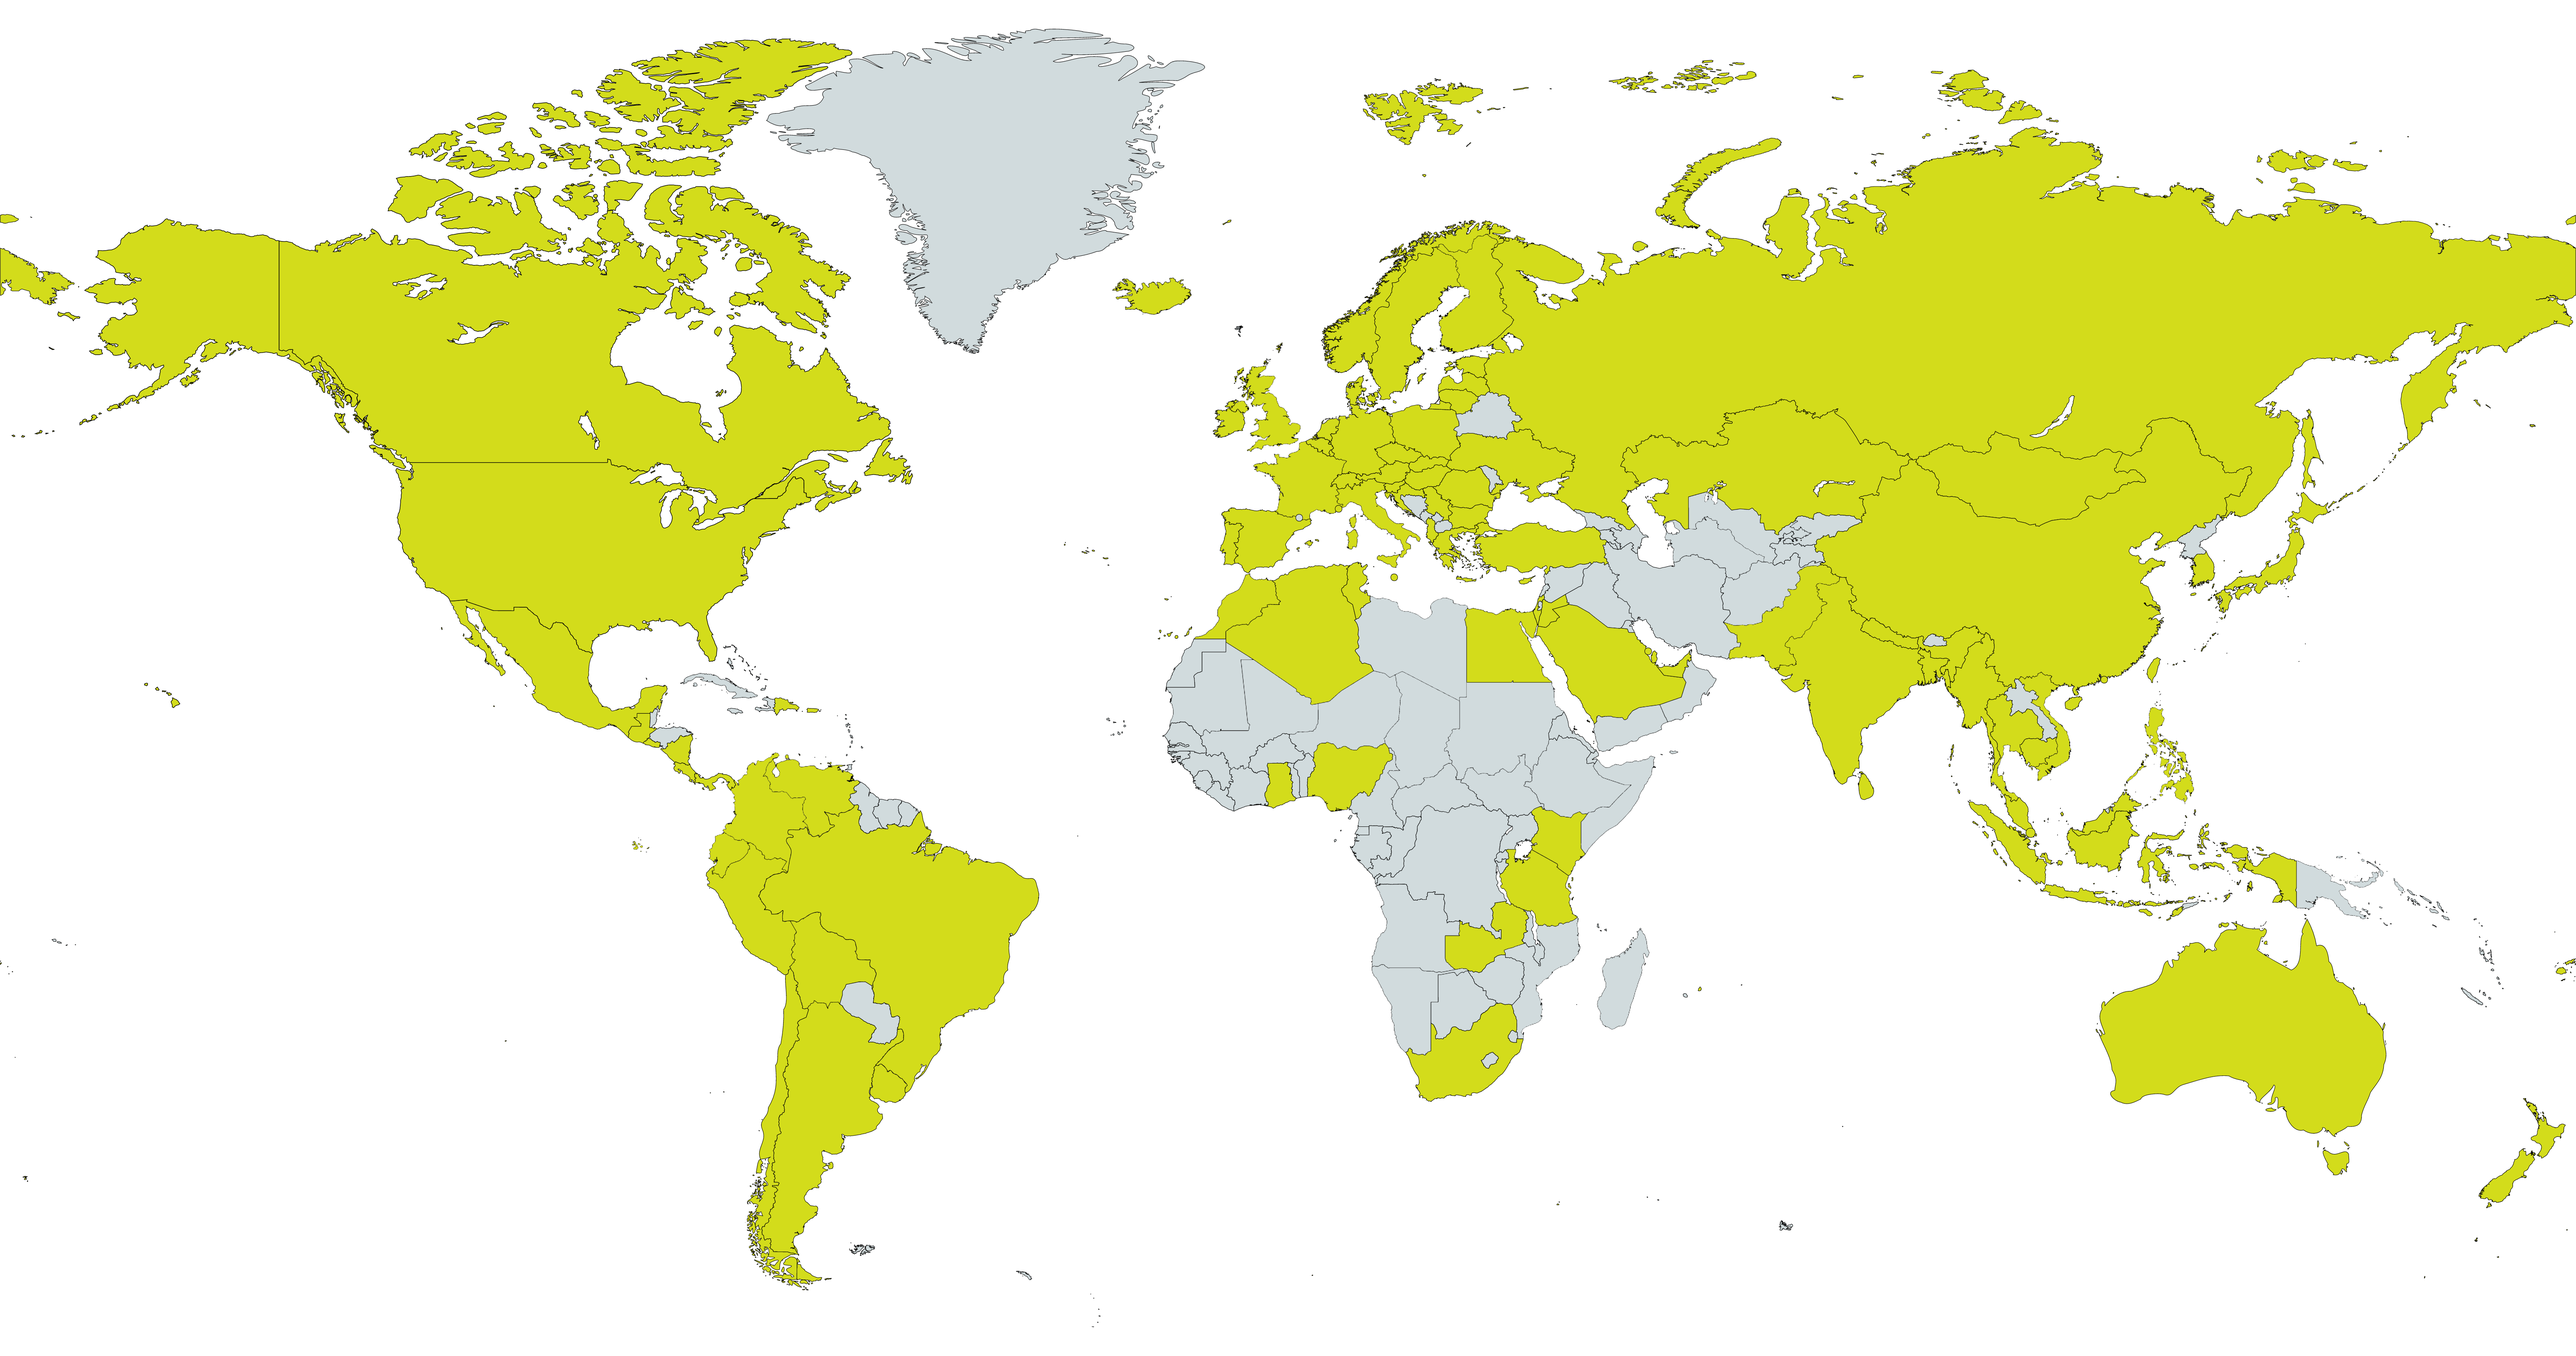
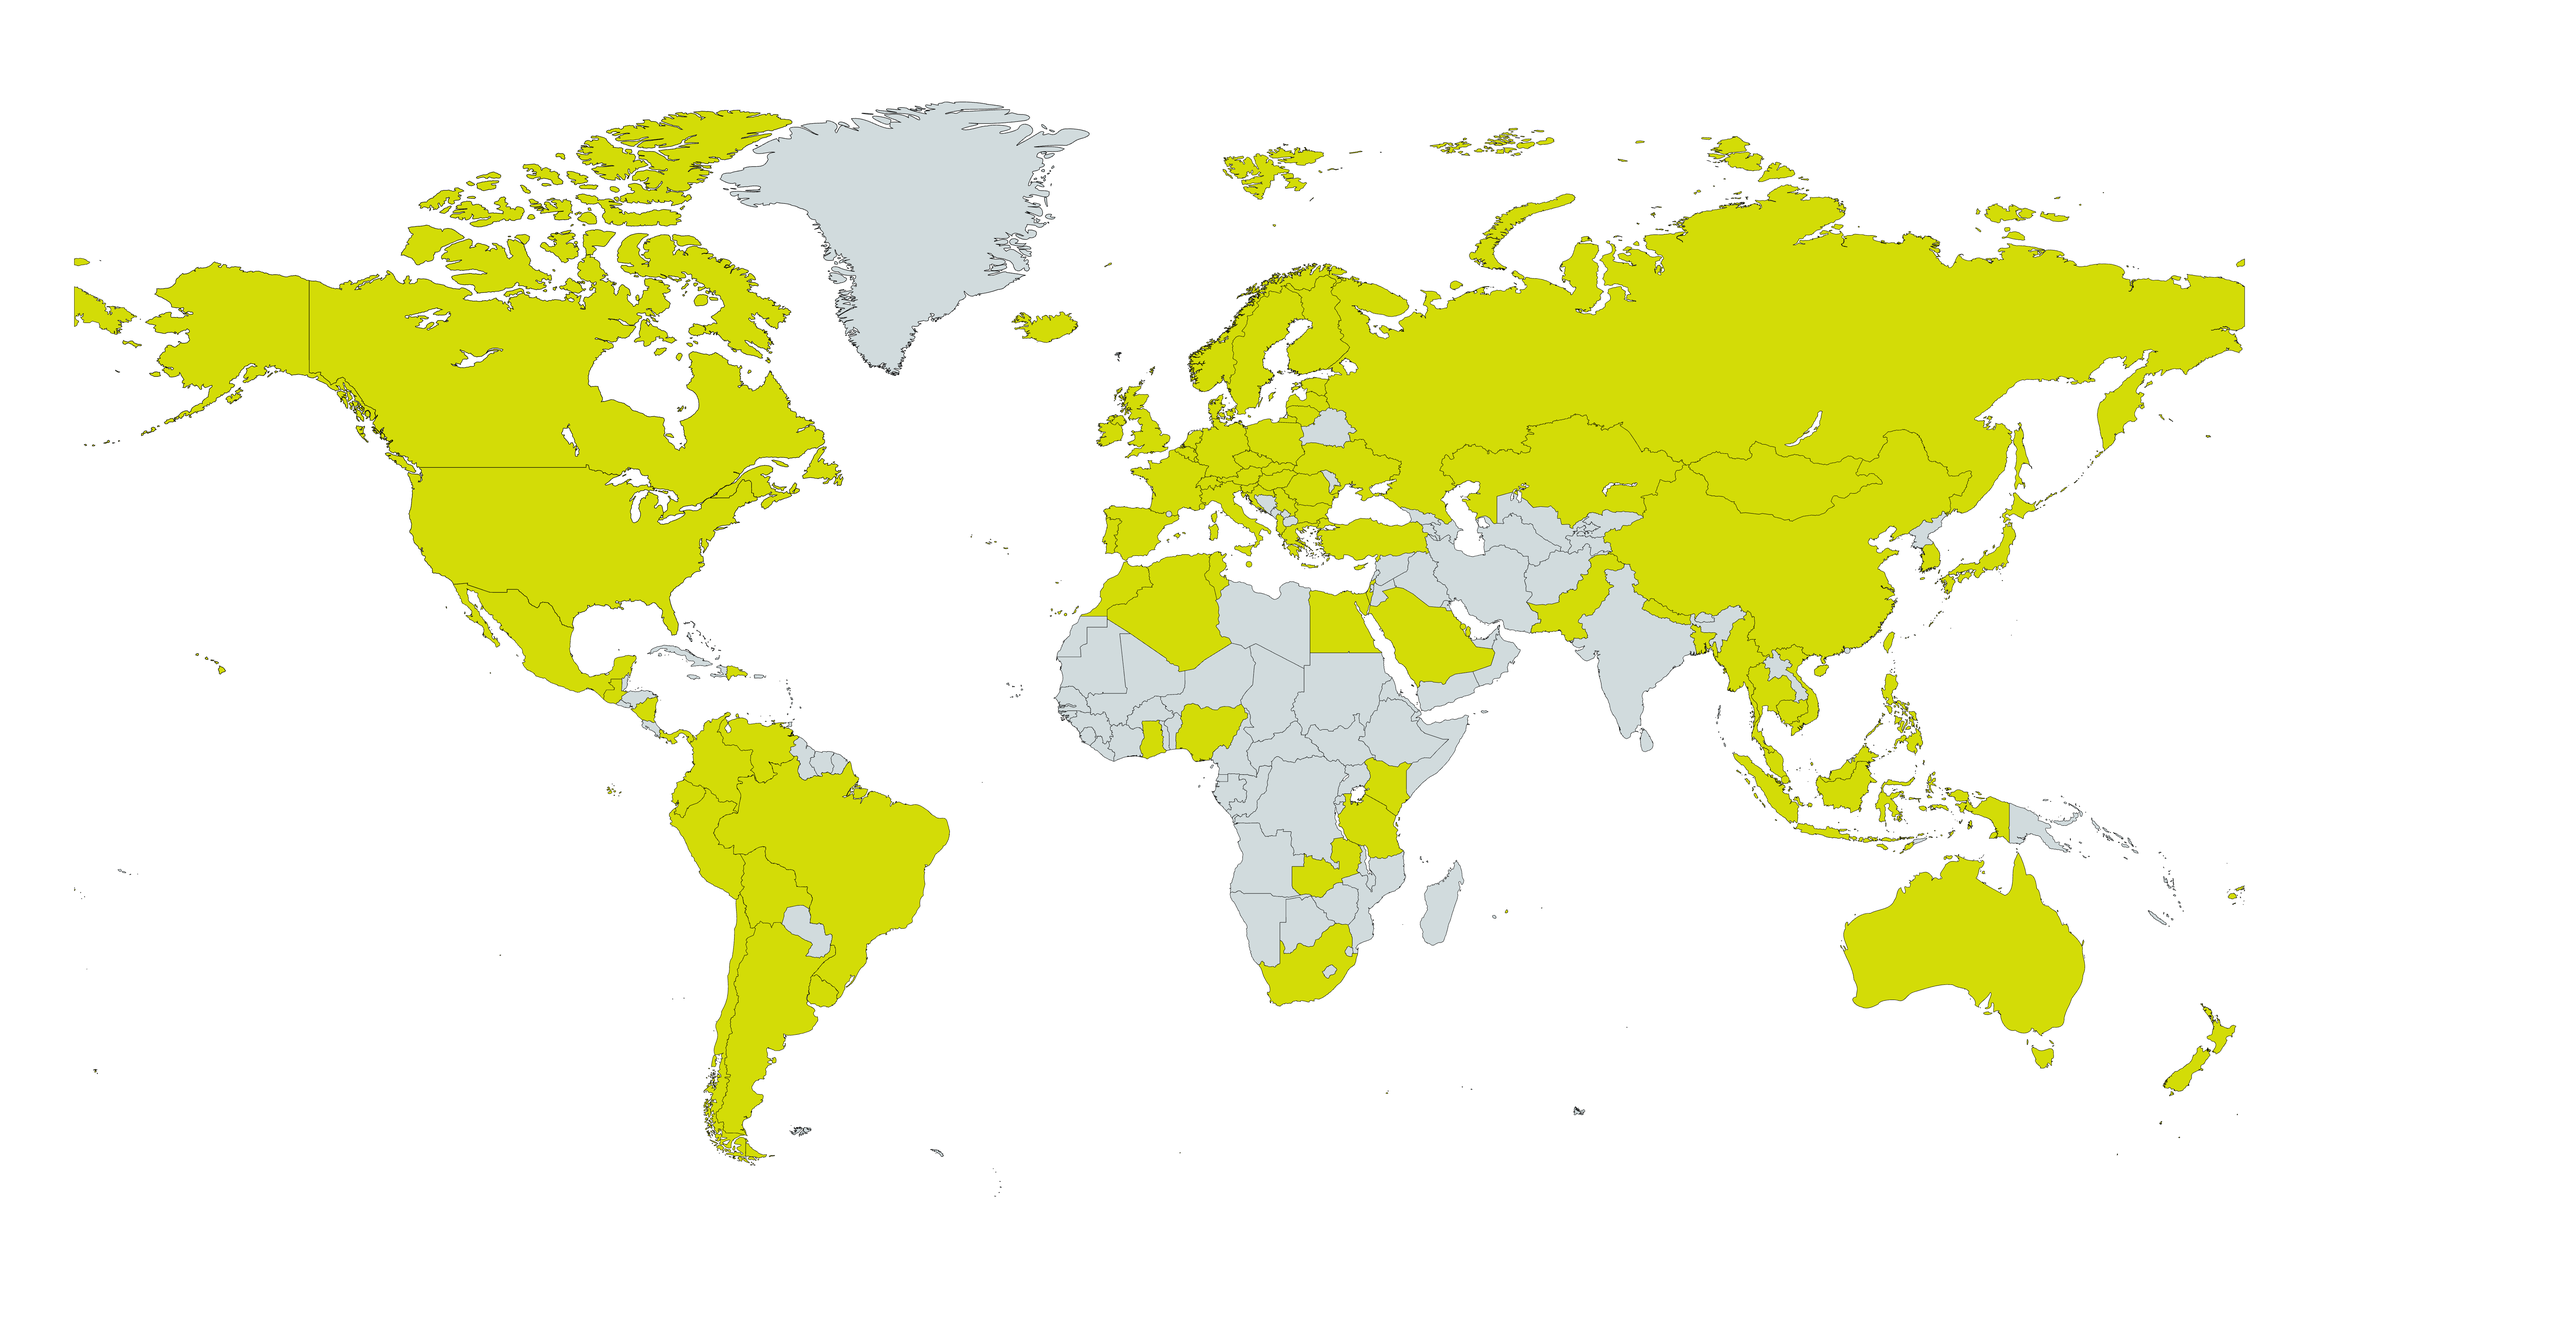
Remove India country from list of active countries in Products page

diff --git a/products.html b/products.html
@@ -220,7 +220,7 @@
                     <i class="fas fa-times-circle countries-close" id="countires-close"></i>
                     <p>
                         <i class="fas fa-globe-asia countries-icon"></i>
-                        <strong>Asia:</strong> Australia, Bahrain, Bangladesh, Cambodia, China, Fiji, Guam, Hong Kong, India, Indonesia, Japan, Kazakhstan, Korea, Macao, Malaysia, Mongolia, Myanmar, Nepal, New Zealand, Pakistan, Philippines, Saipan, Singapore, Sri Lanka, Taiwan, Thailand, Vietnam
+                        <strong>Asia:</strong> Australia, Bahrain, Bangladesh, Cambodia, China, Fiji, Guam, Hong Kong, Indonesia, Japan, Kazakhstan, Korea, Macao, Malaysia, Mongolia, Myanmar, Nepal, New Zealand, Pakistan, Philippines, Saipan, Singapore, Sri Lanka, Taiwan, Thailand, Vietnam
                     </p>
                     <br>
                     <p>
